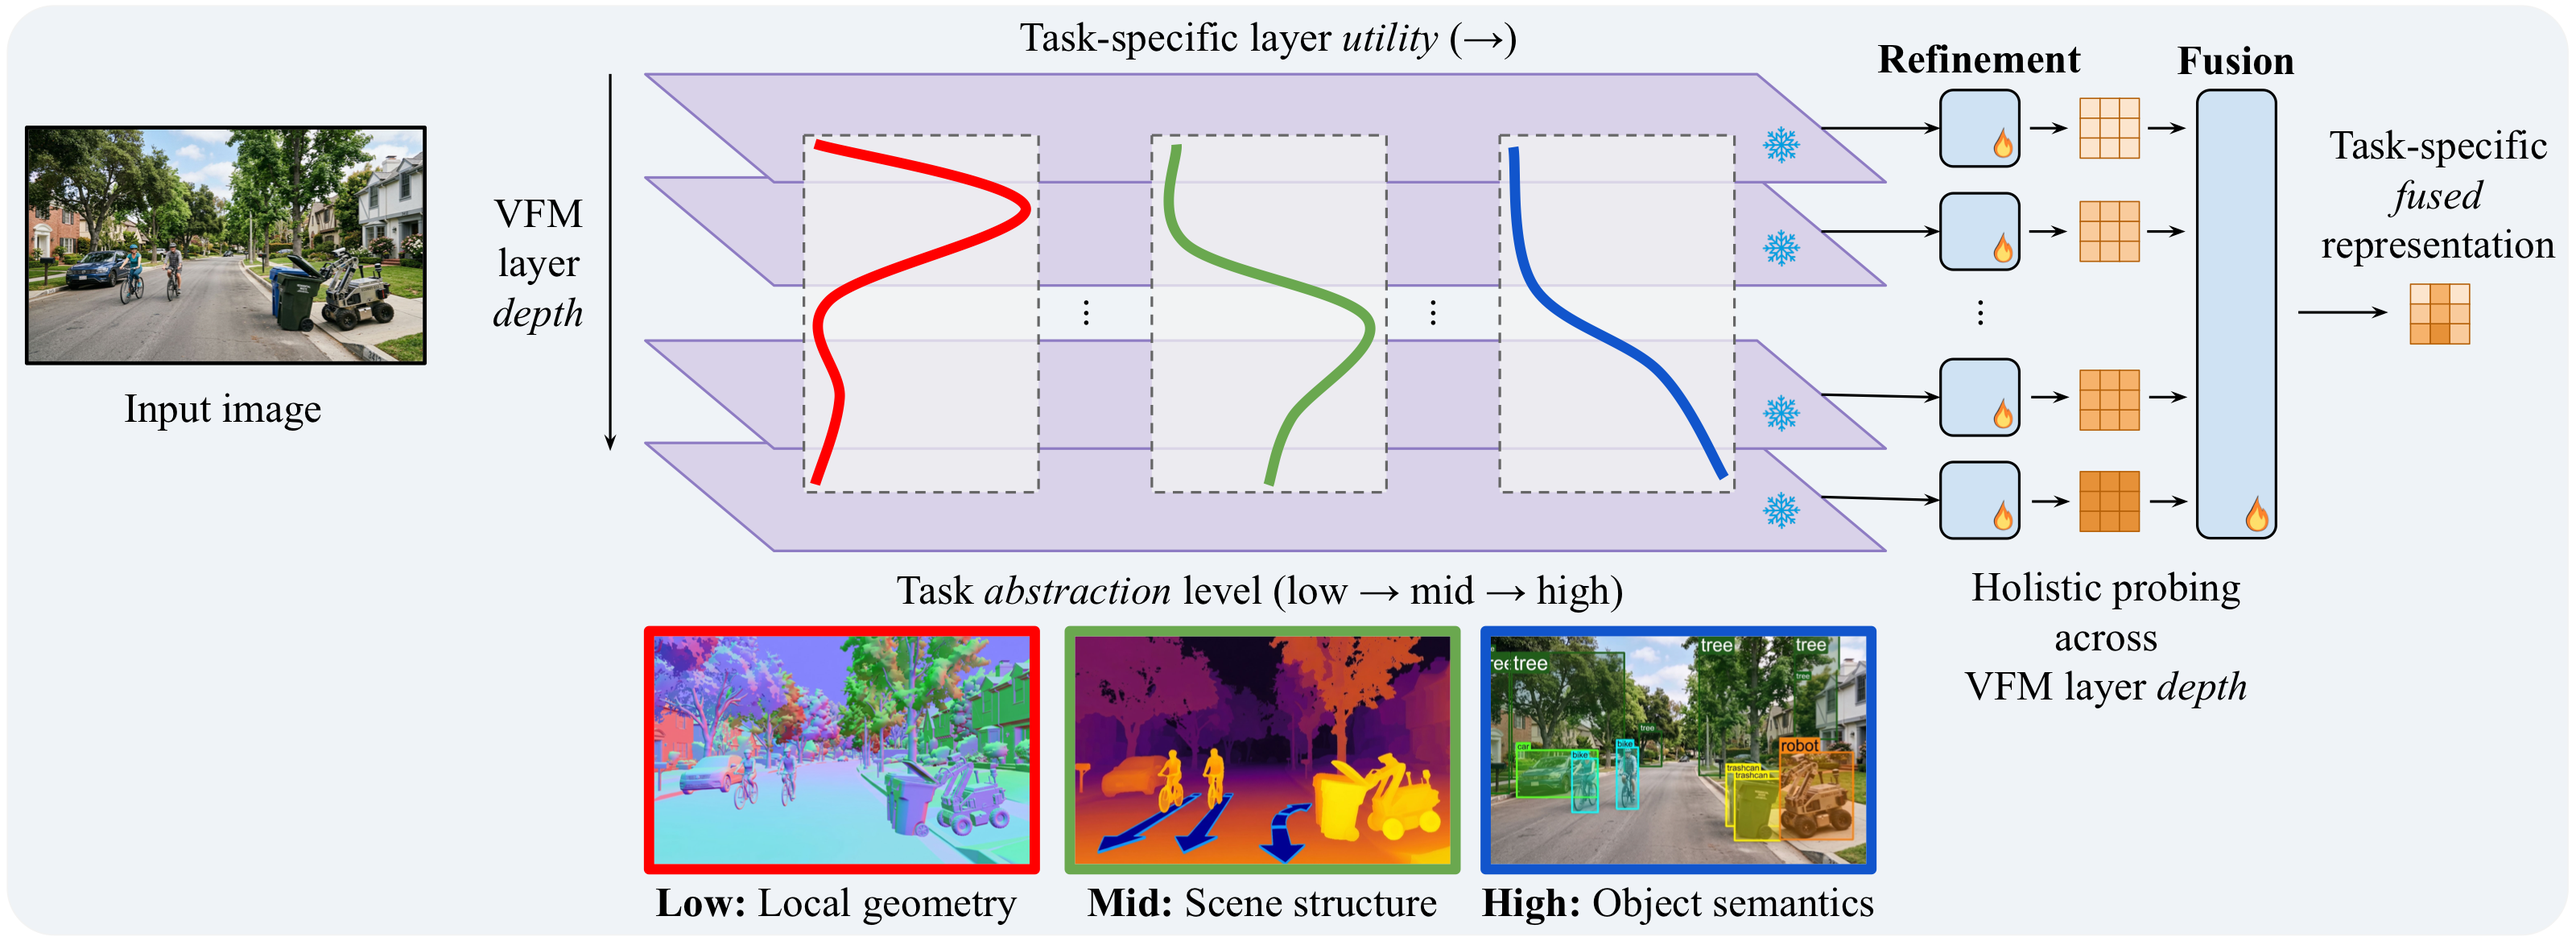
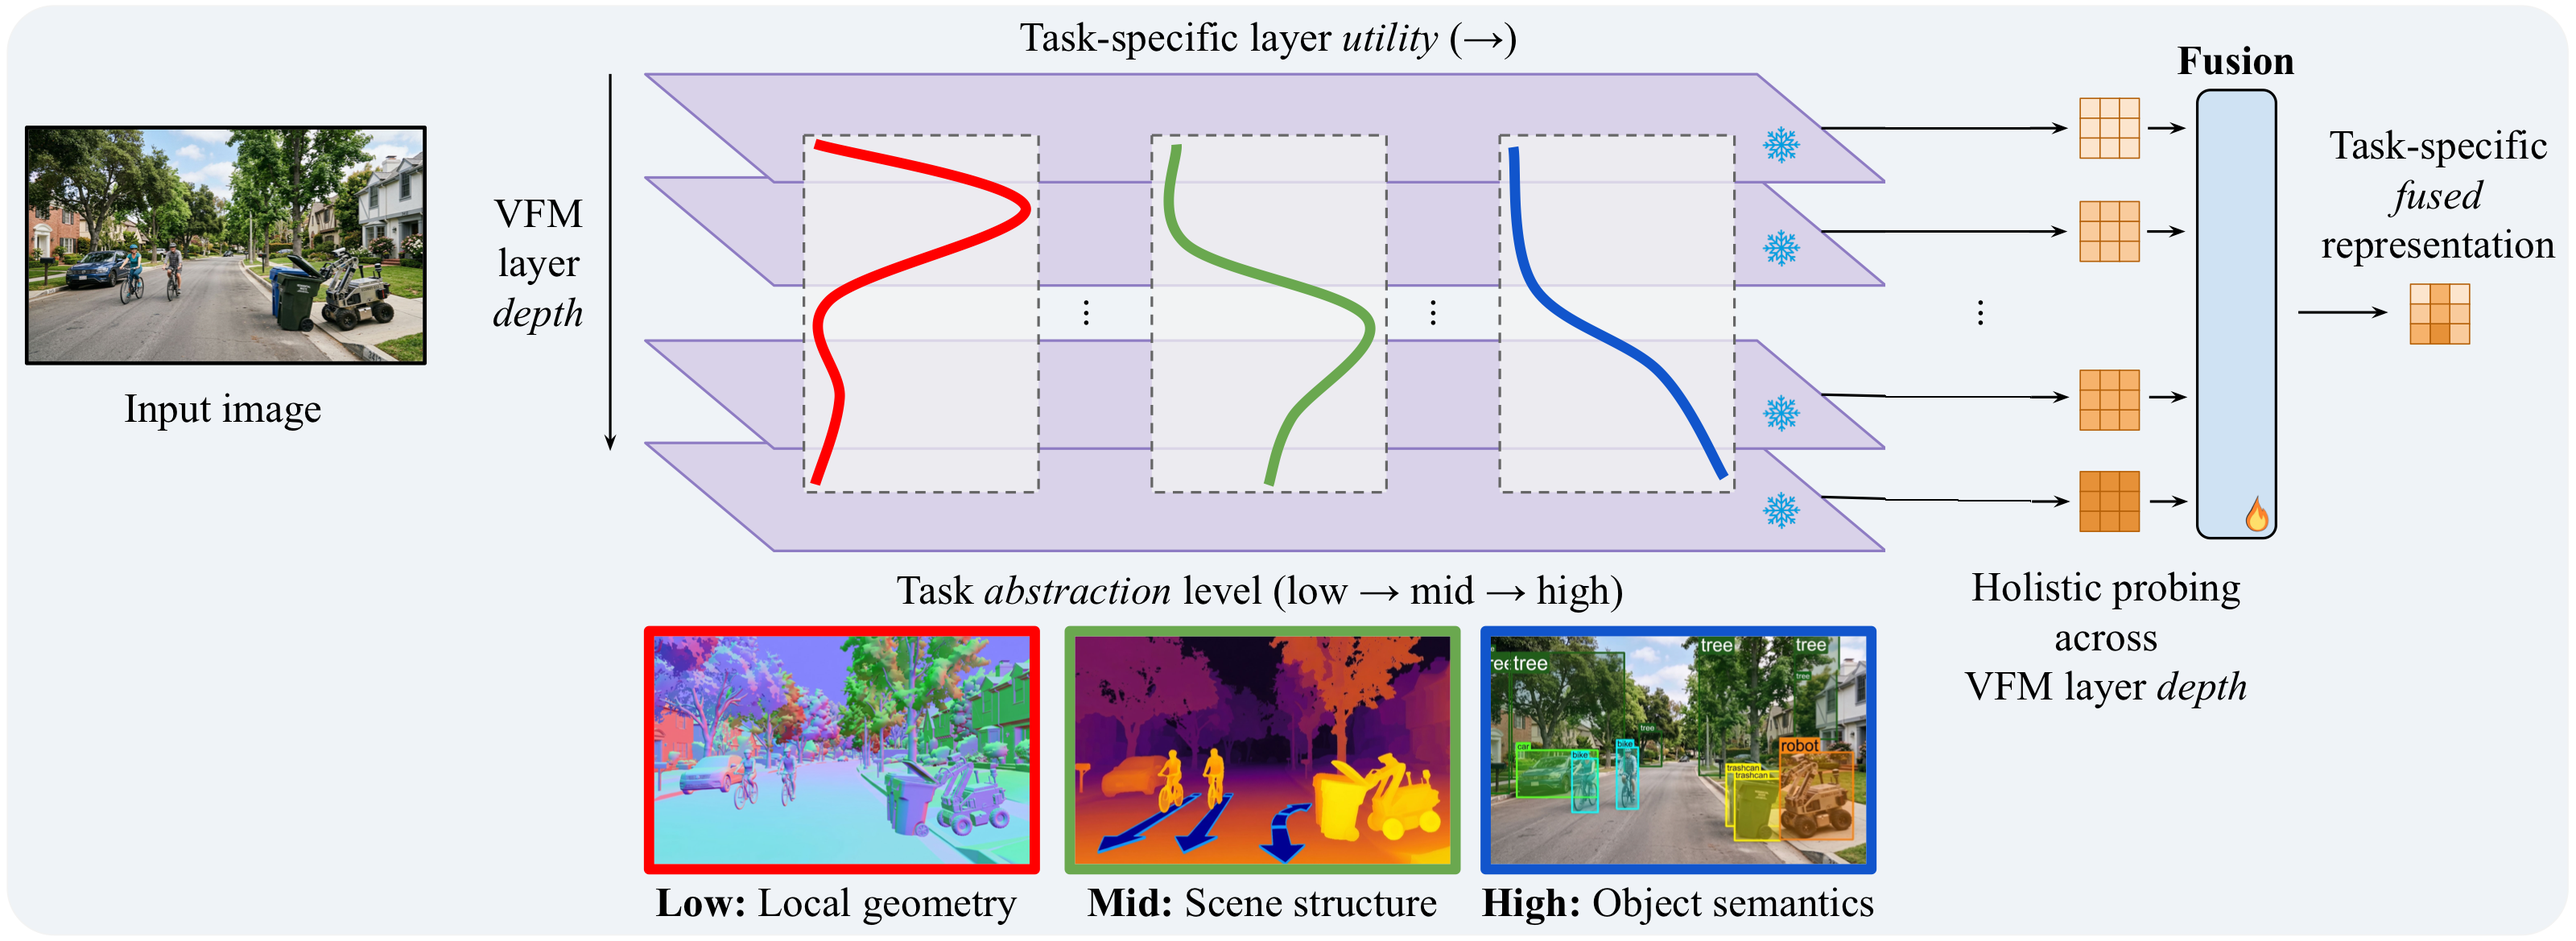
mlinpl2026: remove remaining refinement mentions
- Motivation sentence and Fig. 1 caption describe fusion of frozen layers only
- Teaser: drop the Refinement column; frozen layers feed Fusion directly
- Evidence box: ConcatLayers is strong but costly (6.8M vs 1.6M incl. head)

Claude-Session: https://claude.ai/code/session_01Qe6FXh8JAFN3GjHXoMh1xe

Changed region(s): [[0.7188, 0.0308, 0.8125, 0.308], [0.75, 0.3695, 0.8125, 0.5851]]

diff --git a/poster/index.html b/poster/index.html
@@ -219,9 +219,9 @@ const CARD_REGISTRY = {
     grow: false,
     body: (
       <>
-        <p>Representations change abstraction level across network depth: low-level geometry, mid-level scene structure, and high-level semantics peak at different layers. AMDF removes the need to hand-pick a layer &mdash; it refines every layer, then fuses them <b>per patch</b> with a learned depth-attention distribution.</p>
+        <p>Representations change abstraction level across network depth: low-level geometry, mid-level scene structure, and high-level semantics peak at different layers. AMDF removes the need to hand-pick a layer &mdash; it reads all frozen layers and, for <b>every patch</b>, learns how to mix them with depth attention.</p>
         <div className="fig"><div className="fig-wrap"><img src="fig_teaser.png" alt="Motivation and overview of AMDF" /></div>
-        <div className="cap"><b>Fig. 1:</b> Task-specific layer utility varies with abstraction level (low/mid/high). AMDF refines each frozen layer, then fuses all layers per patch into a task-specific dense representation.</div></div>
+        <div className="cap"><b>Fig. 1:</b> Task-specific layer utility varies with abstraction level (low/mid/high). AMDF takes the frozen patch tokens of every layer and fuses them per patch, with learned depth attention, into a task-specific dense representation.</div></div>
       </>
     ),
   },
@@ -234,7 +234,7 @@ const CARD_REGISTRY = {
         <p>We probe a frozen DINOv3-L/16 independently at every layer &#8467; &isin; {'{1,...,24}'} on three NYUv2 tasks of increasing abstraction, training a lightweight head per layer and recording its validation score. All three tasks share the same training images, yet the best-performing layer shifts systematically deeper as task abstraction increases.</p>
         <div className="fig"><div className="fig-wrap"><img src="fig_motivation.png" alt="Layer sweeps on NYUv2 for surface normals, depth and segmentation" /></div>
         <div className="cap"><b>Fig. 2:</b> Layer-wise probing on NYUv2 with DINOv3-L/16: the best layer shifts deeper as tasks become more semantic &mdash; surface normals peak at layer&nbsp;18, depth at layer&nbsp;21, segmentation at the final layer&nbsp;24 (the last layer).</div></div>
-        <div className="hl"><p>Exhaustive per-task layer search is costly and still commits to one <i>fixed</i> depth. Worse, a single layer ignores that complementary information may be spread across <i>multiple</i> depths at once &mdash; while naively concatenating all layers yields prohibitively large dense features. This motivates AMDF's holistic, patch-wise fusion across the full frozen hierarchy.</p></div>
+        <div className="hl"><p>Exhaustive per-task layer search is costly and still commits to one <i>fixed</i> depth. Worse, a single layer ignores complementary information spread across <i>multiple</i> depths, and concatenating all layers is strong but expensive (6.8M vs 1.6M trainable parameters on DINOv3-L, including the task head). This motivates AMDF's patch-wise fusion across the full frozen hierarchy.</p></div>
       </>
     ),
   },
